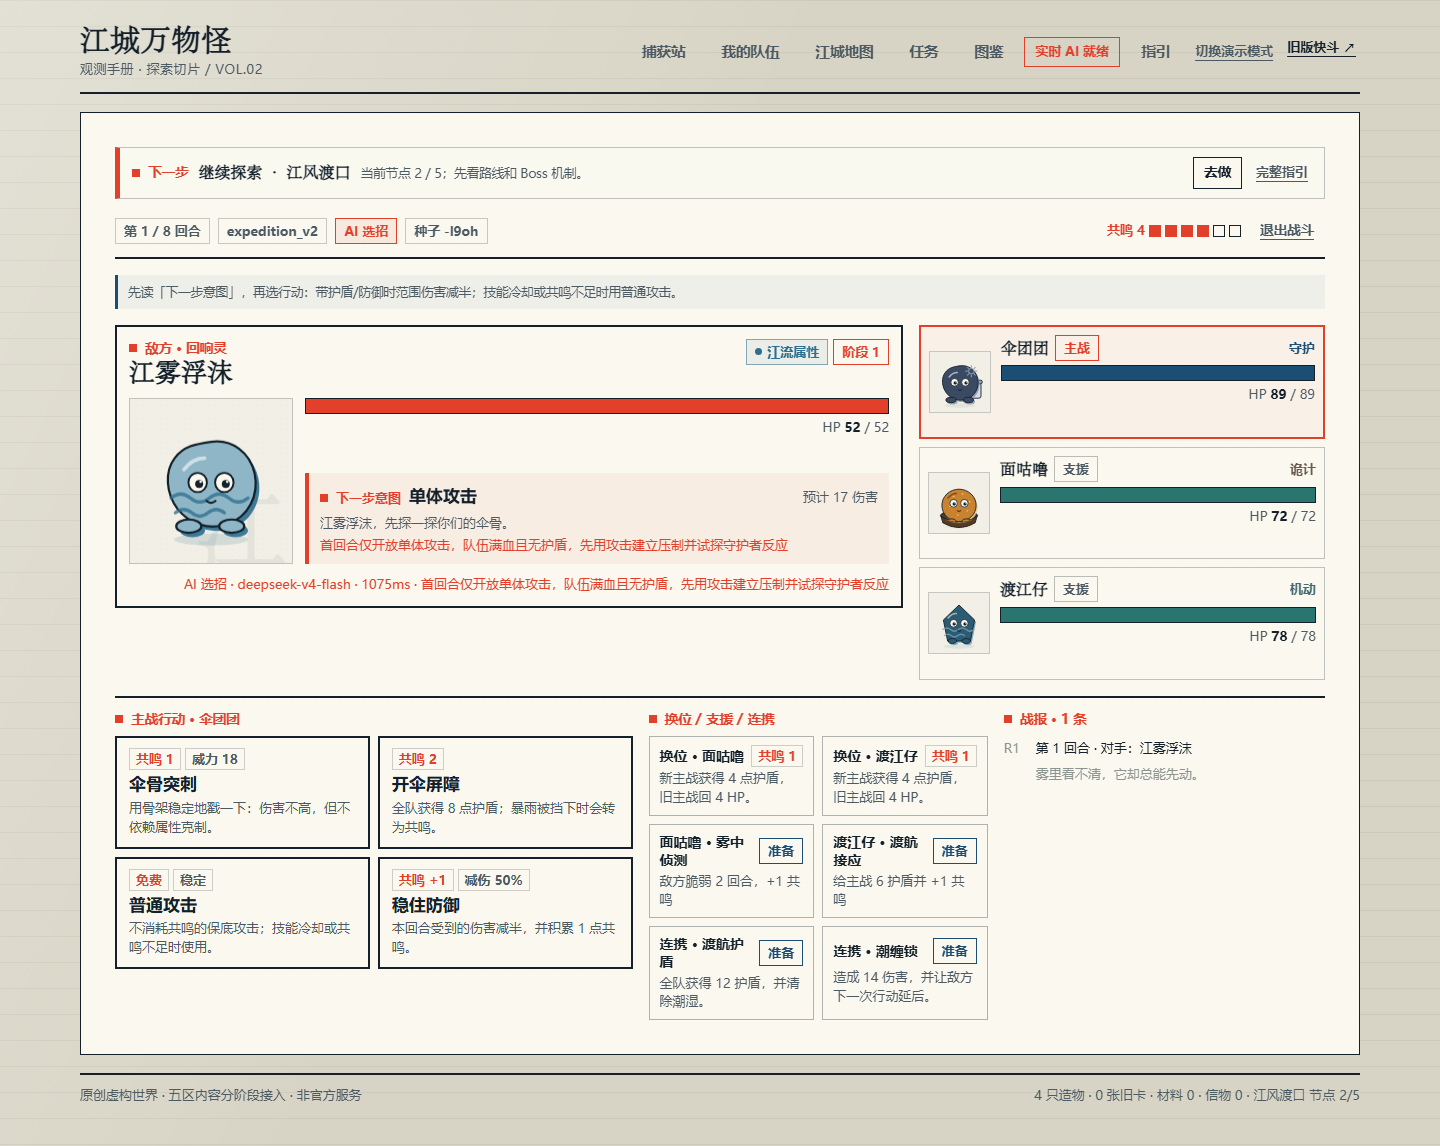
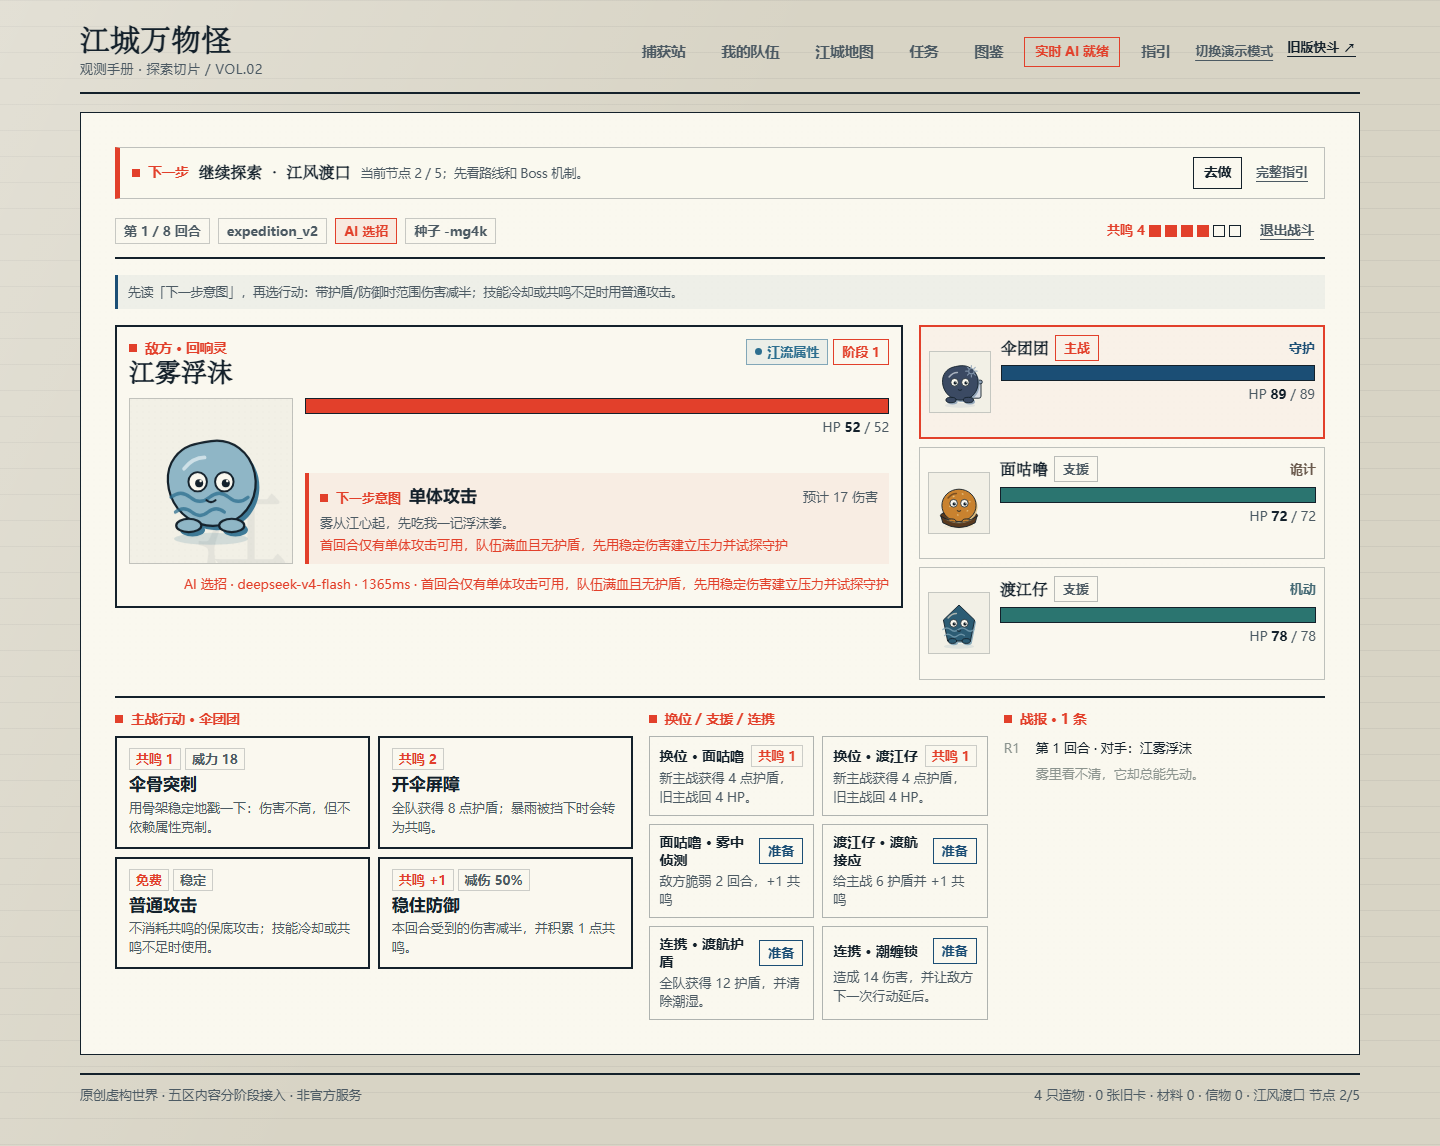
copy(v2): humanizer-zh pass - event/effect consistency, guide wording, natural toasts and result copy

Changed region(s): [[0.2188, 0.4276, 0.625, 0.5192], [0.125, 0.397, 0.1875, 0.4887], [0.3125, 0.1832, 0.3438, 0.2138]]

diff --git a/src/v2/domain/region.ts b/src/v2/domain/region.ts
@@ -201,7 +201,7 @@ export const EVENTS: Record<string, GameEvent> = {
   ev_zao_queue: {
     id: 'ev_zao_queue',
     title: '排队的人',
-    text: '前面的人忘了带钱，摊主看着他，他身后的人都看着摊主。',
+    text: '前面的人忘了带钱。摊主看着他，他身后的人看着摊主。',
     choices: [
       { id: 'help', label: '替他付了', desc: '队伍羁绊 +2', effect: { kind: 'bond', amount: 2 }, flags: ['zao_helped'] },
       { id: 'grab', label: '趁乱多拿一份', desc: '获得 2 材料', effect: { kind: 'materials', amount: 2 } },
@@ -219,9 +219,9 @@ export const EVENTS: Record<string, GameEvent> = {
   ev_bridge_toolbox: {
     id: 'ev_bridge_toolbox',
     title: '工具箱',
-    text: '桥工把工具箱落在了桥洞里。里面有一枚旧信物。',
+    text: '桥工把工具箱落在了桥洞里，里面有一枚旧信物。',
     choices: [
-      { id: 'repair', label: '帮桥工把桥修好', desc: '获得 1 信物', effect: { kind: 'tokens', amount: 1 }, flags: ['bridge_fixed'] },
+      { id: 'repair', label: '把工具箱送回去', desc: '获得 1 信物', effect: { kind: 'tokens', amount: 1 }, flags: ['bridge_fixed'] },
       { id: 'scrap', label: '拆下还能用的零件', desc: '获得 3 材料', effect: { kind: 'materials', amount: 3 } },
     ],
   },
@@ -283,9 +283,9 @@ export const EVENTS: Record<string, GameEvent> = {
   ev_zao_second: {
     id: 'ev_zao_second',
     title: '第二碗',
-    text: '摊主认出了你，什么也没问，又盛了一碗。汤面很烫，队伍安静了一会儿。',
+    text: '摊主认出了你，什么也没问，又盛了一碗。面很烫，队伍安静了一会儿。',
     choices: [
-      { id: 'eat', label: '坐下来吃完', desc: '开局护盾 +8，羁绊 +1', requiresFlag: 'zao_helped', effect: { kind: 'startShield', amount: 8 } },
+      { id: 'eat', label: '坐下来吃完', desc: '下一场开局 +8 护盾', requiresFlag: 'zao_helped', effect: { kind: 'startShield', amount: 8 } },
       { id: 'pack', label: '打包带走', desc: '获得 2 材料', effect: { kind: 'materials', amount: 2 } },
     ],
   },
@@ -294,7 +294,7 @@ export const EVENTS: Record<string, GameEvent> = {
     title: '最后一勺辣油',
     text: '老板把一勺辣油递过来：「大厨怕这个。」',
     choices: [
-      { id: 'take', label: '收下辣油', desc: 'Boss 血量 -8%，开局 +6 护盾', effect: { kind: 'bossHp', amount: -8 } },
+      { id: 'take', label: '收下辣油', desc: 'Boss 血量 -8%', effect: { kind: 'bossHp', amount: -8 } },
       { id: 'sell', label: '拿去换材料', desc: '获得 3 材料', effect: { kind: 'materials', amount: 3 } },
     ],
   },
@@ -330,7 +330,7 @@ export const EVENTS: Record<string, GameEvent> = {
     title: '一颗种子',
     text: '树根边有一颗没发芽的种子。档案员大概不会注意到它。',
     choices: [
-      { id: 'plant', label: '种在坡上', desc: '羁绊 +2，开局 +6 护盾', effect: { kind: 'startShield', amount: 6 } },
+      { id: 'plant', label: '种在坡上', desc: '下一场开局 +6 护盾', effect: { kind: 'startShield', amount: 6 } },
       { id: 'take', label: '带回去研究', desc: '获得 2 材料', effect: { kind: 'materials', amount: 2 } },
     ],
   },
@@ -346,7 +346,7 @@ export const EVENTS: Record<string, GameEvent> = {
   ev_thunder_blueprint: {
     id: 'ev_thunder_blueprint',
     title: '主脑的图纸',
-    text: '图纸上标着主脑的三个供电节点。你只需要掐掉一个。',
+    text: '图纸上标着主脑的三个供电节点。记下其中一个，就够让它分神。',
     choices: [
       { id: 'cut', label: '标记节点', desc: 'Boss 血量 -12%', requiresFlag: 'invention_started', effect: { kind: 'bossHp', amount: -12 } },
       { id: 'sell', label: '卷起来换钱', desc: '获得 1 信物', effect: { kind: 'tokens', amount: 1 } },
@@ -377,7 +377,7 @@ export const REGIONS: Record<RegionId, RegionDef> = {
   zao: {
     id: 'zao',
     name: '过早巷',
-    subtitle: '锅气、队伍与一碗热干面的火候',
+    subtitle: '锅气、人声与一碗热干面的火候',
     accent: '#c58b25',
     bossId: 'zao_boss',
     landmark: '蒸笼与芝麻磨',

diff --git a/src/v2/domain/guidance.ts b/src/v2/domain/guidance.ts
@@ -17,8 +17,8 @@ export const GUIDE_SECTIONS: GuideSection[] = [
     title: '捕获 · 让物品成为回响',
     subtitle: '从一件日常物品开始，先看见它的物性，再决定它往哪条路长。',
     steps: [
-      { title: '选样本或拍照', text: '样本是离线内置的；上传会先读像素，再按需请求模型给语义标签。' },
-      { title: '确认证据', text: '点击标签把它变成“我确认”。证据会真正改变技能与数值，不只是文案。' },
+      { title: '选样本或拍照', text: '内置样本可以离线用；上传时会先读像素，需要时再请模型给语义标签。' },
+      { title: '确认证据', text: '点一下标签，把它变成“我确认”。证据会真正改变技能与数值，不只是文案。' },
       { title: '选成长倾向', text: '守护/强攻/诡计/支援/机动。同一件物品选不同倾向，召唤出的能力不同。' },
       { title: '召唤定形', text: '定形后进入图鉴；队伍最多 3 只，可随时换人、换装备技能。' },
     ],
@@ -49,12 +49,12 @@ export const GUIDE_SECTIONS: GuideSection[] = [
     subtitle: '完成前一区解锁下一区；每个区 5 个节点，最后是 Boss。',
     steps: [
       { title: '点区域', text: '看该区的五站路线、Boss、区域规则；点“开始探索”进入。' },
-      { title: '选事件', text: '事件会改变开局共鸣/护盾/材料/羁绊，并留下 flags 影响后续事件。' },
+      { title: '选事件', text: '事件会改变开局共鸣、护盾、材料或羁绊，也会留下线索，影响后面的事件。' },
       { title: '打 Boss', text: 'Boss 必须击破；拖到 8 回合上限算失败，但可以调整队伍重来。' },
     ],
     tips: [
-      '带“灯/桥/花/电”相关标签的物品，会在对应区域触发隐藏选项。',
-      '事件里带锁的选项需要前面留下的线索；不是 bug。',
+      '前面事件里留下的线索，会在对应区域解锁隐藏选项。',
+      '事件里带锁的选项需要前面留下的线索；这是设计，不是卡住。',
       '区域完成会解锁下一区，材料/信物/成长全部保留。',
     ],
   },
@@ -69,7 +69,7 @@ export const GUIDE_SECTIONS: GuideSection[] = [
       { title: '看战报', text: '右侧记录逐条结果；结算页会显示 AI 参与回合数。' },
     ],
     tips: [
-      'Boss 半血/2/3 血会进阶段，意图和机制会变；提前留防御/护盾。',
+      '不同 Boss 会在半血或 2/3、1/3 血量时进阶段，意图和机制都会变；提前留防御或护盾。',
       '“桥面封锁”回合支援不可用；“抄录招式”会反制重复技能。',
       '不用每回合都打伤害；防御攒共鸣、等 Boss 蓄力也是策略。',
     ],

diff --git a/src/v2/views/Panels.tsx b/src/v2/views/Panels.tsx
@@ -16,6 +16,19 @@ import { ELEMENTS } from '../../features/monsters/elements';
 import { MonsterSprite } from '../../features/monsters/MonsterSprite';
 import { JiangchengMap } from './JiangchengMap';
 
+const FLAG_LABEL: Record<string, string> = {
+  lamp_lit: '把灯点亮',
+  ferry_fixed: '把渡船修好',
+  warm: '在蒸汽里取暖',
+  zao_helped: '替前面的人付钱',
+  bridge_connected: '把桥接上',
+  bridge_fixed: '把工具箱送回去',
+  petal_kept: '接住一片花瓣',
+  photo_kept: '收起旧照片',
+  power_on: '合上闸',
+  invention_started: '启动旧机器',
+};
+
 function ElementBadge({ element }: { element: V2Creature['element'] }) {
   const meta = ELEMENTS[element];
   return (
@@ -403,7 +416,7 @@ export function RegionMap({
                         key={choice.id}
                         onClick={() => onChooseEvent(event.id, choice.id)}
                         disabled={lockedChoice}
-                        title={lockedChoice ? `需要先留下「${choice.requiresFlag}」的线索` : choice.desc}
+                        title={lockedChoice ? `需要先留下「${FLAG_LABEL[choice.requiresFlag!] ?? '前面的线索'}」` : choice.desc}
                       >
                         <b>{choice.label}</b>
                         <span>{lockedChoice ? '还缺少前置线索' : choice.desc}</span>
@@ -458,7 +471,7 @@ export function RegionMap({
             <p className="v2-rubric">区域规则</p>
             <p className="fineprint">
               {region.id === 'river'
-                ? '暴雨会淋湿全队；有护盾/防御时伤害减半。Boss 半血进入第二阶段，积水成渊更频繁。'
+                ? '暴雨会淋湿全队；主战有护盾或防御时，范围伤害会被挡下大半。Boss 半血进入第二阶段，积水成渊更频繁。'
                 : region.id === 'zao'
                   ? '每次命中会给大厨叠加「热度」。热度到 3 时进入第二阶段，锅气爆炒会附加脆弱。'
                   : region.id === 'bridge'
@@ -572,7 +585,7 @@ export function BattleResult({
         </span>
         <div>
           <p className="v2-rubric">探索战结算 · {resultRegion.name}</p>
-          <h2 className="v2-h2">{win ? '风暴停了一小会儿' : battle.outcome === 'lose' ? '这次被潮水压过去了' : '打平了，但潮水还没退'}</h2>
+          <h2 className="v2-h2">{win ? '这一局，站稳了。' : battle.outcome === 'lose' ? '这次被压过去了。' : '打平了，谁都没退。'}</h2>
           <p className="v2-lede">
             {summary.rounds} 回合 · 敌方 AI 参与 {summary.aiRounds} / {battle.planLog.length} 回合 · 奖励材料 {summary.rewards.materials}
             {summary.rewards.tokens ? ` · 信物 ${summary.rewards.tokens}` : ''}

diff --git a/src/v2/V2App.tsx b/src/v2/V2App.tsx
@@ -282,7 +282,7 @@ export function V2App() {
       if (!save.unlockedRegions.includes(regionId)) {
         const region = REGIONS[regionId];
         const previous = region.unlockAfter ? REGIONS[region.unlockAfter] : null;
-        showToast(previous ? `先完成「${previous.name}」解锁这里` : '这个区域还没有解锁');
+        showToast(previous ? `先完成「${previous.name}」解锁这里` : '这里还没有解锁');
         return;
       }
       const next = startRegionRun(save, regionId, newSeed(regionId));
@@ -530,7 +530,7 @@ export function V2App() {
   const handleQuestAi = useCallback(async () => {
     const active = QUEST_DEFS.filter((quest) => ['active', 'complete'].includes(questState(quest, save)));
     if (active.length === 0) {
-      showToast('现在没有可推荐的任务');
+      showToast('现在没有能推荐的任务');
       return;
     }
     setQuestPlanning(true);
@@ -645,7 +645,7 @@ export function V2App() {
     (questId: string) => {
       const next = claimQuest(save, questId);
       if (next === save) {
-        showToast('奖励还不能领取');
+        showToast('这个奖励还不能领');
         return;
       }
       const quest = QUEST_BY_ID.get(questId);

diff --git a/src/v2/domain/quests.ts b/src/v2/domain/quests.ts
@@ -231,7 +231,7 @@ export const QUEST_DEFS: QuestDef[] = [
   {
     id: 'q_evolved_master',
     title: '掌握一条路',
-    desc: '完成进化并把等级带到 5。',
+    desc: '完成一次进化，再把等级练到 5。',
     kind: 'growth',
     target: 1,
     progress: (save) => (save.collection.some((item) => item.evolutionId && item.level >= 5) ? 1 : 0),

diff --git a/src/v2/content/evolutions.ts b/src/v2/content/evolutions.ts
@@ -195,7 +195,7 @@ export const EVOLUTION_GROUPS: EvolutionGroup[] = [
         id: 'cup_guard',
         groupId: 'cup',
         name: '保温瓶卫',
-        desc: '把温度和护盾一起拧紧。',
+        desc: '把温度拧紧，也把护盾拧紧。',
         path: 'guardian',
         statBonus: { hp: 16, atk: 2, def: 4, spd: 0 },
         moduleId: 'A13',

diff --git a/docs/JIANGCHENG_2_COPY_PASS.md b/docs/JIANGCHENG_2_COPY_PASS.md
@@ -1,0 +1,63 @@
+# 2.0 游戏内文案润色记录（humanizer-zh）
+
+> 范围：游戏内面向玩家的短文案（事件、区域、指引、结算、任务、进化、Toast）。
+> 未改：数值、机制、版本号、内部字段名、测试与文档正文；没有为了“更好看”补写事实或数值。
+
+## 1. 先修事实不一致
+
+这次通读发现 3 处「说明文字和实际效果不一致」，先按代码改文案，而不是按文案改数值：
+
+| 位置 | 原文案 | 实际效果 | 处理 |
+|---|---|---|---|
+| `ev_zao_second` 坐下来吃完 | 开局护盾 +8，羁绊 +1 | 只加护盾 +8 | 改为「下一场开局 +8 护盾」 |
+| `ev_zao_spice` 收下辣油 | Boss 血量 -8%，开局 +6 护盾 | 只削 Boss 血量 | 改为「Boss 血量 -8%」 |
+| `ev_sakura_seed` 种在坡上 | 羁绊 +2，开局 +6 护盾 | 只加护盾 +6 | 改为「下一场开局 +6 护盾」 |
+
+另有两处「文本描述和按钮不一致」：
+
+- 桥影工坊「工具箱」：原文说箱子在桥洞，按钮却叫“帮桥工把桥修好”。改为「把工具箱送回去」，仍保留“修桥”留下的线索。
+- 雷鸣创想站「主脑的图纸」：原文说“掐掉一个节点”，按钮是“标记节点”。改为“记下其中一个，就够让它分神”。
+
+## 2. 去掉内部术语与错指引
+
+- 指引里的 `flags` 改为 **「线索」**；不向玩家暴露内部字段名。
+- 指引曾写“带灯/桥/花/电相关标签的物品会触发隐藏选项”，实际是**前面事件留下的线索**决定是否解锁。已改正，避免玩家带错物品找隐藏选项。
+- 事件锁的提示从“不是 bug”改为“这是设计，不是卡住”，保留原意，语气更像游戏内说明。
+- 被锁选项的鼠标提示不再显示 `lamp_lit` 这类内部键，改为「需要先留下『把灯点亮』」。
+- Boss 阶段说明从“半血/2/3 血”改为“不同 Boss 会在半血或 2/3、1/3 血量时进阶段”，不再把所有 Boss 说成同一套。
+
+## 3. 让句子更像这个世界的人在说话
+
+| 位置 | 原 | 改 |
+|---|---|---|
+| 过早巷区域副标题 | 锅气、队伍与一碗热干面的火候 | 锅气、人声与一碗热干面的火候 |
+| 早味大厨·第二碗 | 汤面很烫 | 面很烫（热干面没有汤） |
+| 早市排队 | 摊主看着他，他身后的人都看着摊主 | 摊主看着他，他身后的人看着摊主（去掉重复的“都”和“他”） |
+| 结算胜利 | 风暴停了一小会儿 | 这一局，站稳了。 |
+| 结算失败 | 这次被潮水压过去了 | 这次被压过去了。 |
+| 结算平局 | 打平了，但潮水还没退 | 打平了，谁都没退。 |
+| 江风渡口规则 | 有护盾/防御时伤害减半 | 主战有护盾或防御时，范围伤害会被挡下大半 |
+| 掌握一条路 | 完成进化并把等级带到 5 | 完成一次进化，再把等级练到 5 |
+| 容器系·保温瓶卫 | 把温度和护盾一起拧紧 | 把温度拧紧，也把护盾拧紧 |
+
+结算标题原来把“潮水/风暴”写死在所有区域，换到过早巷、桥影工坊会串味；改成区域无关、只表达胜负的三句。
+
+## 4. 保留没问题的文案
+
+以下没有强行改写：
+
+- 样本提示（“雨天撑开的一小块屋顶”“雾里一声汽笛，江面被划开”）；
+- Boss 台词（风雨电台、早味大厨、桥影守卫、樱信档案员、造物夜主脑）；
+- 事件正文中已经具体的部分（“每接住一片，就想起一个很久以前的名字”“别把同一招用两次，它都记得”）；
+- 机制描述里的数字、限定和条件（护盾 +8、Boss 血量 -8%、3 级、1 信物、8 回合）。
+
+## 5. 验证
+
+```bash
+npm run typecheck  ✅
+npm test           ✅ 19 files / 95 tests
+npm run build      ✅
+npm run shots:2    ✅ 23 步
+```
+
+改动均为文案与提示映射，不改规则；测试与 E2E 重新跑过。
